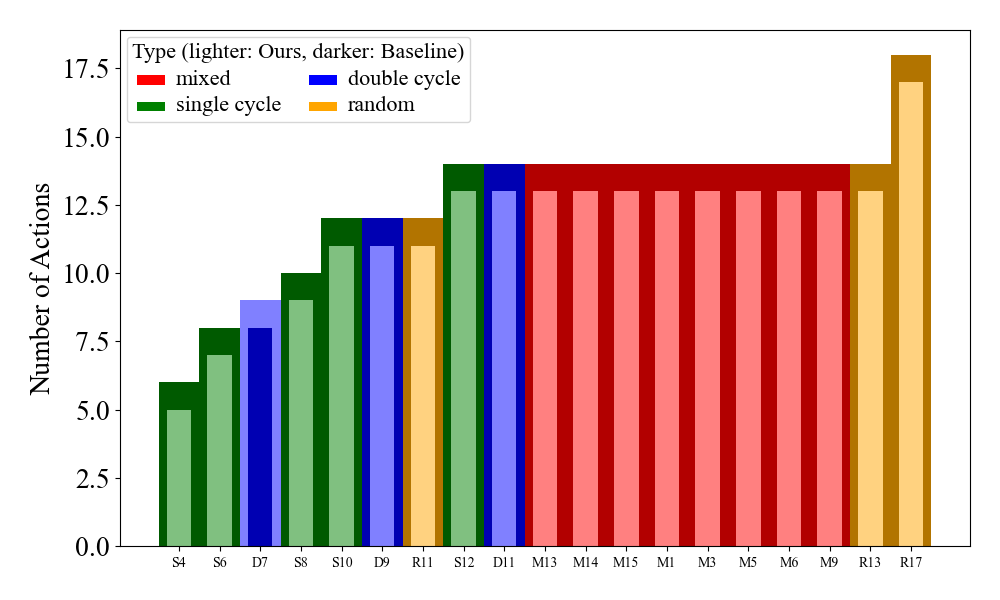
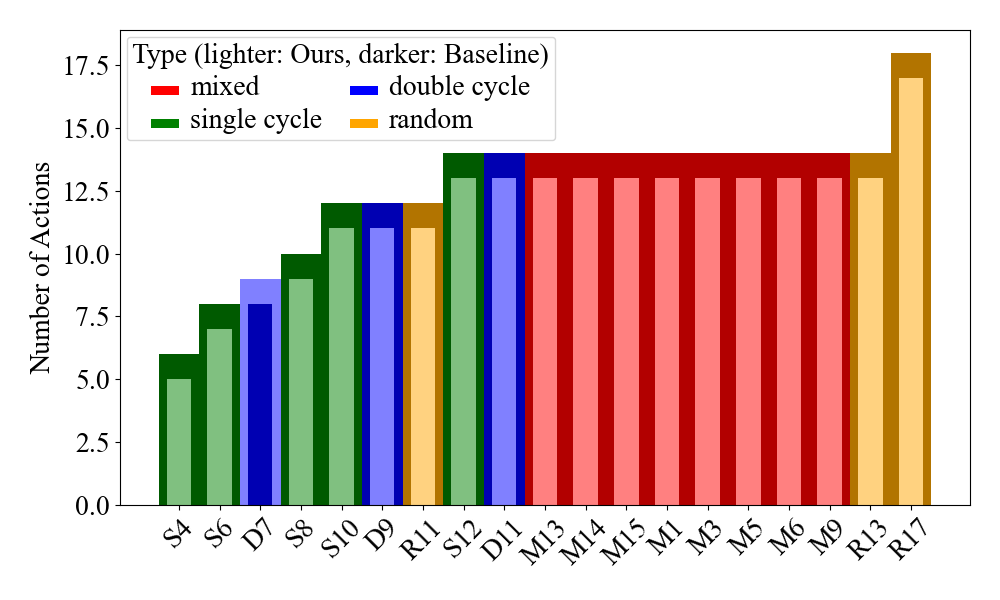
new results

diff --git a/visualize_execution_time.py b/visualize_execution_time.py
@@ -27,7 +27,7 @@ colors = {
     "baseline_with_our_tp": "green",
     "ours_with_baseline_tp": "orange",
     "our_tp_with_curobo": "purple",
-    "baseline_tp_with_curobo": "brown"
+    "baseline_tp_with_curobo": "magenta"
 }
 
 type_short = {
@@ -107,17 +107,17 @@ for t_type in testcase_types_order:
 
 # Step 3: Prepare data for plotting
 testcase_names = [f"{get_type_short(case['name'])}{case['num_objects']}" for case in sorted_cases]
-group_spacing = 1.2  # or try 1.5 for even more spacing
-x = np.arange(len(testcase_names)) * group_spacing
-width = 0.2
+n_cases = len(testcase_names)
+x = np.linspace(0, n_cases - 1, n_cases)
+width = 0.15  # Keep bars thick
 
 # Bar positions
 baseline_x = x - 2.5 * width
-baseline_tp_with_curobo_x = x - 2 * width
-tp_x = x - width
-ours_tp_x = x
-our_tp_with_curobo_x = x + width
-ours_x = x + 2 * width
+tp_x = x - 1.5 * width
+ours_tp_x = x - 0.5 * width
+our_tp_with_curobo_x = x + 0.5 * width
+baseline_tp_with_curobo_x = x + 1.5 * width
+ours_x = x + 2.5 * width
 
 
 
@@ -131,25 +131,27 @@ ours_times = [case["ours"] for case in sorted_cases]
 
 
 # Step 4: Plot
-fig, ax = plt.subplots(figsize=(25, 6))
+fig, ax = plt.subplots(figsize=(28, 6))
+ax.margins(x=0)
 ax.bar(baseline_x, baseline_times, width, label="Baseline", color=colors["baseline"])
-ax.bar(baseline_tp_with_curobo_x, baseline_tp_with_curobo_times, width, label="Baseline TP+Curobo", color=colors["baseline_tp_with_curobo"])
 ax.bar(tp_x, tp_times, width, label="Baseline+Our TP", color=colors["baseline_with_our_tp"])
 ax.bar(ours_tp_x, ours_tp_times, width, label="Ours+Baseline TP", color=colors["ours_with_baseline_tp"])
 ax.bar(our_tp_with_curobo_x, our_tp_with_curobo_times, width, label="Our TP+Curobo", color=colors["our_tp_with_curobo"])
+ax.bar(baseline_tp_with_curobo_x, baseline_tp_with_curobo_times, width, label="Baseline TP+Curobo", color=colors["baseline_tp_with_curobo"])
 ax.bar(ours_x, ours_times, width, label="Ours", color=colors["ours"])
 
 
 # ax.set_xlabel("Test Cases", fontname='Times New Roman', fontsize=20)
-ax.set_ylabel("Execution Time (s)", fontname='Times New Roman', fontsize=20)
+ax.set_ylabel("Execution Time (s)", fontname='Times New Roman', fontsize=25)
 ax.set_xticks(x)
-ax.set_xticklabels(testcase_names, fontname='Times New Roman', fontsize=15)
-ax.yaxis.set_tick_params(labelsize=20)
-ax.xaxis.set_tick_params(labelsize=16)
-leg = ax.legend(fontsize=20, loc='upper center', ncol=6)
+ax.set_xlim(-1, np.max(x) + 1)
+ax.set_xticklabels(testcase_names, rotation=45, fontname='Times New Roman', fontsize=25)
+ax.yaxis.set_tick_params(labelsize=25)
+ax.xaxis.set_tick_params(labelsize=25)
+leg = ax.legend(fontsize=25, loc='upper center', ncol=6)
 for text in leg.get_texts():
     text.set_fontname('Times New Roman')
-    text.set_fontsize(20)
+    text.set_fontsize(25)
 plt.tight_layout()
 plt.savefig("results/execution_time_comparison.png", dpi=100)
 print("Plot saved as results/execution_time_comparison.png")

diff --git a/task.py b/task.py
@@ -1382,15 +1382,18 @@ def generate_dataset(num_samples: int, folder: str = 'data', object_size=0.05, c
 
 # debug
 if __name__ == '__main__':
-    # task = Task(6, 0.6, 0.6, 0.05) 
-    # # task.generate_running_example()
+    task = Task(6, 0.6, 0.6, 0.05) 
+    task.generate_running_example()
     # task.generate("mixed", clearance=0.05)
     # print("task.cycles: ", task.dependency_graph.get_cycles())
     # print("task.chains: ", task.dependency_graph.get_chains())
     # print("task.independent_sets: ", task.dependency_graph.get_independent_sets())
-    # task.draw_four_panel("results/four_panel.png")
-    # task.write_to_json("data/task_running_example.json")
+    task.write_to_json("data/task_running_example.json")
+    # task = Task.read_from_json("data/task_running_example.json")
+    task.draw_all("results/four_panel_running_example.png", overlay=True)
     # task.draw_triptych_to_ppt("results/test.pptx", slide_title="Running Example")
+    task.draw_start_goal_dependency_to_ppt("results/test2.pptx", slide_title="Start, Goal and Dependency Graph")
+    exit()
 
     task = Task.read_from_json("data/random_objects_18.json")
     task.draw_all("results/four_panel.png")

diff --git a/visualize_num_actions.py b/visualize_num_actions.py
@@ -282,15 +282,15 @@ def plot_absolute_actions(action_counts):
 	]
 	leg = plt.legend(handles=legend_elems, fontsize=10, loc='upper left', ncol=2, title='Type (lighter: Ours, darker: Baseline)', title_fontsize=10)
 	leg.get_title().set_fontname('Times New Roman')
-	leg.get_title().set_fontsize(16)
+	leg.get_title().set_fontsize(20)
 	for text in leg.get_texts():
 		text.set_fontname('Times New Roman')
-		text.set_fontsize(16)
+		text.set_fontsize(20)
 
 	plt.ylabel('Number of Actions', fontname='Times New Roman', fontsize=20)
 	# Remove title
 	# plt.title('Absolute Number of Actions per Test Case', fontname='Times New Roman', fontsize=20)
-	plt.xticks(x, testcase_names, fontsize=10)
+	plt.xticks(x, testcase_names, rotation=45, fontsize=20)
 	plt.yticks(fontsize=20)
 	plt.tight_layout()
 	out_path = os.path.join(RESULTS_DIR, 'num_actions_absolute_barplot.png')
